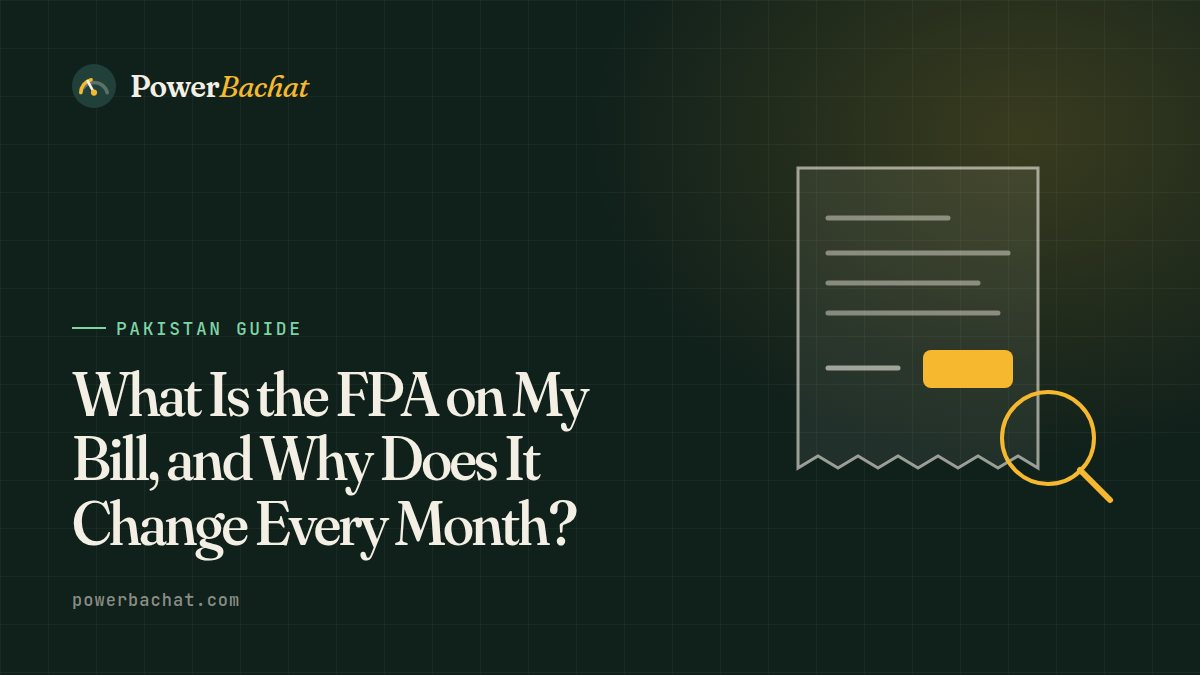
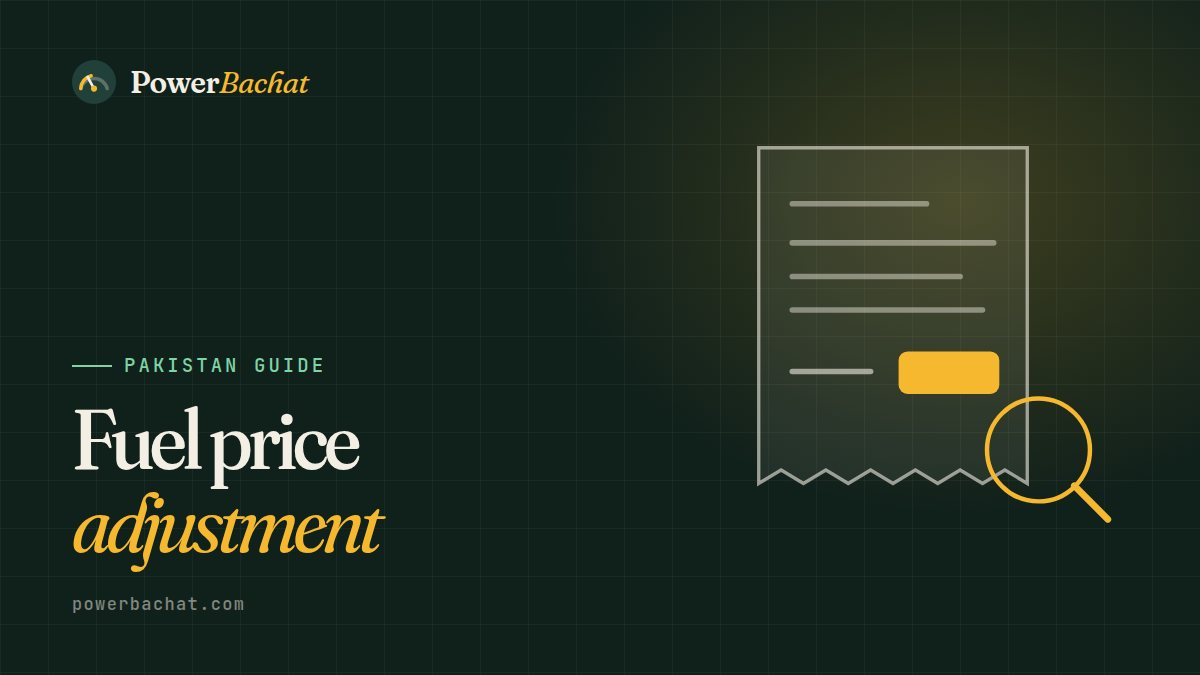
PowerBachat 1.6.0: 15 scheduled guides, new covers, related guides
- 15 new guide posts (5 per country) with internal links and official
  source links, scheduled every other day after the existing queue and
  rotating Pakistan, India and Bangladesh
- Scheduling continues after the last scheduled post on later imports
- New cover design with short topic labels; existing posts get their cover,
  and older theme covers are refreshed, on "Create missing"
- Related guides section under every post
- Spacing for the tariff alerts box on inner pages

Claude-Session: https://claude.ai/code/session_01FYgpBCz8pe9M72PugG8hHt

diff --git a/wordpress/tools/covers.js b/wordpress/tools/covers.js
@@ -1,7 +1,7 @@
 // Cover images for guide posts: node tools/covers.js powerbachat [slug]
 // Writes powerbachat/content/images/{slug}.jpg (1200x675) for every post, or one slug.
 // Each post header sets "cover" (slabs, solar, battery, meter, fan, ac, geyser, clock,
-// bill) and optionally "cover_label". Needs: npm i playwright. Fonts: SIL OFL (Google Fonts).
+// bill), "cover_title" (2 to 4 words) and optionally "cover_label". Needs: npm i playwright.
 const { chromium } = require('playwright');
 const fs = require('fs'), path = require('path');
 const root = process.argv[2];
@@ -23,27 +23,33 @@ const art = {
 };
 const country = { pakistan: ['Pakistan', '#7fd3a6'], india: ['India', '#f5b82e'], bangladesh: ['Bangladesh', '#ff9a7a'] };
 
+function esc(t) { return t.replace(/&/g,'&amp;').replace(/</g,'&lt;'); }
 function html(meta) {
   const [cname, ccol] = country[meta.category] || ['Guide', V];
-  const t = meta.title;
-  const size = t.length > 70 ? 54 : t.length > 52 ? 62 : 70;
+  const label = meta.cover_title || meta.title;
+  const words = label.split(' ');
+  const last = words.pop();
+  const title = (words.length ? esc(words.join(' ')) + ' ' : '') + '<em>' + esc(last) + '</em>';
+  const size = label.length > 18 ? 84 : label.length > 12 ? 98 : 112;
+  const art_svg = (art[meta.cover] || art.meter).replace('>200</text>', '>' + (meta.cover_label || '200') + '</text>');
   return `<!doctype html><html><head><style>${FONTS}
-  *{box-sizing:border-box}body{margin:0;width:1200px;height:675px;overflow:hidden;background:#10201b;color:${P};font-family:'Hanken Grotesk'}
-  .bg{position:absolute;inset:0;background:radial-gradient(60% 80% at 85% 20%,rgba(245,184,46,.18),transparent 60%),linear-gradient(rgba(244,239,228,.045) 1px,transparent 1px) 0 0/48px 48px,linear-gradient(90deg,rgba(244,239,228,.045) 1px,transparent 1px) 0 0/48px 48px}
-  .wrap{position:absolute;inset:0;padding:64px 72px;display:grid;grid-template-columns:1fr 420px;gap:40px}
-  .left{display:flex;flex-direction:column}
+  *{box-sizing:border-box}body{margin:0;width:1200px;height:675px;overflow:hidden;background:#10201b;color:${P};font-family:'JetBrains Mono'}
+  .bg{position:absolute;inset:0;background:radial-gradient(55% 75% at 80% 30%,rgba(245,184,46,.20),transparent 62%),linear-gradient(rgba(244,239,228,.045) 1px,transparent 1px) 0 0/48px 48px,linear-gradient(90deg,rgba(244,239,228,.045) 1px,transparent 1px) 0 0/48px 48px}
+  .wrap{position:absolute;inset:0;padding:60px 72px;display:grid;grid-template-columns:1fr 470px;gap:24px}
+  .left{display:flex;flex-direction:column;min-width:0}
   .brand{display:flex;align-items:center;gap:14px;font-family:Fraunces;font-size:30px;font-weight:600;letter-spacing:-.02em}.brand em{font-weight:400;color:${V}}
-  .tag{margin-top:auto;display:inline-flex;align-self:flex-start;gap:10px;align-items:center;font-family:'JetBrains Mono';font-size:18px;letter-spacing:.14em;text-transform:uppercase;color:${ccol}}
-  .tag i{width:34px;height:2px;background:${ccol};display:block}
-  h1{margin:22px 0 0;font-family:Fraunces;font-weight:500;font-size:${size}px;line-height:1.04;letter-spacing:-.035em;font-variation-settings:"SOFT" 50,"opsz" 144}
-  .url{margin-top:34px;font-family:'JetBrains Mono';font-size:17px;color:rgba(244,239,228,.55);letter-spacing:.06em}
-  .art{align-self:center;justify-self:center}
+  .tag{margin-top:auto;display:inline-flex;align-self:flex-start;gap:12px;align-items:center;font-size:19px;letter-spacing:.16em;text-transform:uppercase;color:${ccol}}
+  .tag i{width:40px;height:2px;background:${ccol};display:block}
+  h1{margin:20px 0 0;font-family:Fraunces;font-weight:500;font-size:${size}px;line-height:.98;letter-spacing:-.045em;font-variation-settings:"SOFT" 60,"opsz" 144}
+  h1 em{font-style:italic;font-weight:400;color:${V}}
+  .url{margin-top:30px;font-size:17px;color:rgba(244,239,228,.5);letter-spacing:.08em}
+  .art{align-self:center;justify-self:end}
   </style></head><body><div class="bg"></div><div class="wrap"><div class="left">
   <div class="brand"><svg width="44" height="44" viewBox="0 0 40 40"><circle cx="20" cy="20" r="20" fill="#22403a"/><path d="M8 26a12.4 12.4 0 0 1 24 0" fill="none" stroke="${P}" stroke-opacity=".28" stroke-width="3.2" stroke-linecap="round"/><path d="M8 26a12.4 12.4 0 0 1 9.4-11.7" fill="none" stroke="${V}" stroke-width="3.2" stroke-linecap="round"/><path d="M20 26 14.3 15.6" stroke="${P}" stroke-width="2.4" stroke-linecap="round"/><circle cx="20" cy="26" r="2.8" fill="${V}"/></svg><span>Power<em>Bachat</em></span></div>
   <span class="tag"><i></i>${cname} guide</span>
-  <h1>${t.replace(/&/g,'&amp;').replace(/</g,'&lt;')}</h1>
+  <h1>${title}</h1>
   <div class="url">powerbachat.com</div></div>
-  <svg class="art" width="420" height="400" viewBox="0 0 420 400">${(art[meta.cover] || art.meter).replace('>200</text>', '>' + (meta.cover_label || '200') + '</text>')}</svg></div></body></html>`;
+  <svg class="art" width="470" height="448" viewBox="0 0 420 400">${art_svg}</svg></div></body></html>`;
 }
 
 (async () => {

diff --git a/wordpress/powerbachat/style.css b/wordpress/powerbachat/style.css
@@ -4,7 +4,7 @@ Theme URI: https://powerbachat.com
 Author: PowerBachat
 Author URI: https://powerbachat.com
 Description: A fast, hand-tuned theme for PowerBachat.com: electricity bill calculators, unit rates and solar prices for Pakistan, India and Bangladesh. Ships with a live bill calculator, an interactive tariff chart, a solar sizing tool, an editable price board and Customizer controls for every rate on the page.
-Version: 1.5.0
+Version: 1.6.0
 Requires at least: 6.2
 Tested up to: 6.8
 Requires PHP: 7.4

diff --git a/wordpress/powerbachat/content/blog/25-check-electricity-bill-online-pakistan.html b/wordpress/powerbachat/content/blog/25-check-electricity-bill-online-pakistan.html
@@ -2,9 +2,9 @@
 {
 "type": "post",
 "category": "pakistan",
-"order": 25,
+"order": 31,
 "cover": "bill",
-"cover_title": "Bill Check Online",
+"cover_title": "Bill check online",
 "title": "How to Check Your Electricity Bill Online in Pakistan",
 "slug": "check-electricity-bill-online-pakistan",
 "excerpt": "Where to find your reference number or K-Electric account number, how to get a duplicate bill from the official sites, what to check on it and how to pay safely.",

diff --git a/wordpress/powerbachat/content/blog/32-smart-prepaid-meter-india.html b/wordpress/powerbachat/content/blog/32-smart-prepaid-meter-india.html
@@ -2,9 +2,9 @@
 {
 "type": "post",
 "category": "india",
-"order": 32,
+"order": 35,
 "cover": "meter",
-"cover_title": "Smart Prepaid Meters",
+"cover_title": "Smart prepaid meters",
 "title": "Smart Prepaid Meter in India: Recharge, Alerts and Common Myths",
 "slug": "smart-prepaid-meter-india",
 "excerpt": "What the new smart meters do, how prepaid mode and recharge work, what happens when the balance runs out and how to check the readings yourself.",

diff --git a/wordpress/powerbachat/content/blog/31-rooftop-solar-loan-india.html b/wordpress/powerbachat/content/blog/31-rooftop-solar-loan-india.html
@@ -2,9 +2,9 @@
 {
 "type": "post",
 "category": "india",
-"order": 31,
+"order": 32,
 "cover": "solar",
-"cover_title": "Solar Loans Explained",
+"cover_title": "Solar loans explained",
 "title": "Rooftop Solar Loan in India: How Bank Finance Works with PM Surya Ghar",
 "slug": "rooftop-solar-loan-india",
 "excerpt": "How bank finance for home solar works alongside PM Surya Ghar, how the EMI compares with your bill saving and the mistakes to avoid.",

diff --git a/wordpress/powerbachat/content/blog/30-high-electricity-bill-india.html b/wordpress/powerbachat/content/blog/30-high-electricity-bill-india.html
@@ -2,9 +2,9 @@
 {
 "type": "post",
 "category": "india",
-"order": 30,
+"order": 29,
 "cover": "bill",
-"cover_title": "Why Bills Jump",
+"cover_title": "Why bills jump",
 "title": "High Electricity Bill? Why It Jumped and How to Get It Fixed",
 "slug": "high-electricity-bill-india",
 "excerpt": "The common reasons an electricity bill suddenly jumps in India, how to check your meter yourself, and how to complain and escalate if the bill is wrong.",

diff --git a/wordpress/powerbachat/content/blog/28-net-metering-india.html b/wordpress/powerbachat/content/blog/28-net-metering-india.html
@@ -2,9 +2,9 @@
 {
 "type": "post",
 "category": "india",
-"order": 28,
+"order": 23,
 "cover": "solar",
-"cover_title": "Net Metering Explained",
+"cover_title": "Net metering explained",
 "title": "Net Metering in India: How It Works and What It Means for Your Bill",
 "slug": "net-metering-in-india",
 "excerpt": "How net metering works for rooftop solar homes in India, how surplus units are settled, how to apply and how it changes your payback.",

diff --git a/wordpress/powerbachat/content/blog/29-ac-units-per-hour-india.html b/wordpress/powerbachat/content/blog/29-ac-units-per-hour-india.html
@@ -2,9 +2,9 @@
 {
 "type": "post",
 "category": "india",
-"order": 29,
+"order": 26,
 "cover": "ac",
-"cover_title": "AC Units Per Hour",
+"cover_title": "AC units per hour",
 "title": "How Many Units Does a 1.5 Ton AC Use Per Hour?",
 "slug": "1-5-ton-ac-electricity-consumption",
 "excerpt": "Real world units per hour for a 1.5 ton AC in India, how star rating and inverter technology change it, and what it does to your monthly bill.",

diff --git a/wordpress/powerbachat/content/blog/27-reduce-load-shedding-impact.html b/wordpress/powerbachat/content/blog/27-reduce-load-shedding-impact.html
@@ -2,9 +2,9 @@
 {
 "type": "post",
 "category": "pakistan",
-"order": 27,
+"order": 36,
 "cover": "battery",
-"cover_title": "Home UPS Guide",
+"cover_title": "Home UPS guide",
 "title": "Choosing a UPS for Home: Size, Batteries and Backup Time",
 "slug": "ups-for-home-pakistan",
 "excerpt": "How to pick the right UPS or inverter for load-shedding in Pakistan: VA vs watts, batteries, sine wave, backup time, safety and running cost.",

diff --git a/wordpress/powerbachat/content/blog/33-palli-bidyut-bill-bangladesh.html b/wordpress/powerbachat/content/blog/33-palli-bidyut-bill-bangladesh.html
@@ -4,7 +4,7 @@
 "category": "bangladesh",
 "order": 33,
 "cover": "bill",
-"cover_title": "Palli Bidyut Bills",
+"cover_title": "Palli Bidyut bills",
 "title": "Palli Bidyut Bill Explained: How Rural Electricity Bills Work in Bangladesh",
 "slug": "palli-bidyut-bill-bangladesh",
 "excerpt": "How your rural electricity bill from the local PBS is worked out, from slabs and demand charge to VAT, prepaid meters and paying by mobile.",

diff --git a/wordpress/powerbachat/content/blog/23-solar-inverter-guide-pakistan.html b/wordpress/powerbachat/content/blog/23-solar-inverter-guide-pakistan.html
@@ -2,7 +2,7 @@
 {
 "type": "post",
 "category": "pakistan",
-"order": 23,
+"order": 25,
 "cover": "solar",
 "cover_title": "Choosing an inverter",
 "title": "Solar Inverter Buying Guide for Pakistan: What to Check Before You Pay",

diff --git a/wordpress/powerbachat/content/blog/36-induction-cooker-vs-lpg-bangladesh.html b/wordpress/powerbachat/content/blog/36-induction-cooker-vs-lpg-bangladesh.html
@@ -2,7 +2,7 @@
 {
 "type": "post",
 "category": "bangladesh",
-"order": 36,
+"order": 30,
 "cover": "meter",
 "cover_title": "Induction vs LPG",
 "title": "Induction Cooker vs LPG in Bangladesh: Which Is Cheaper to Cook With?",
